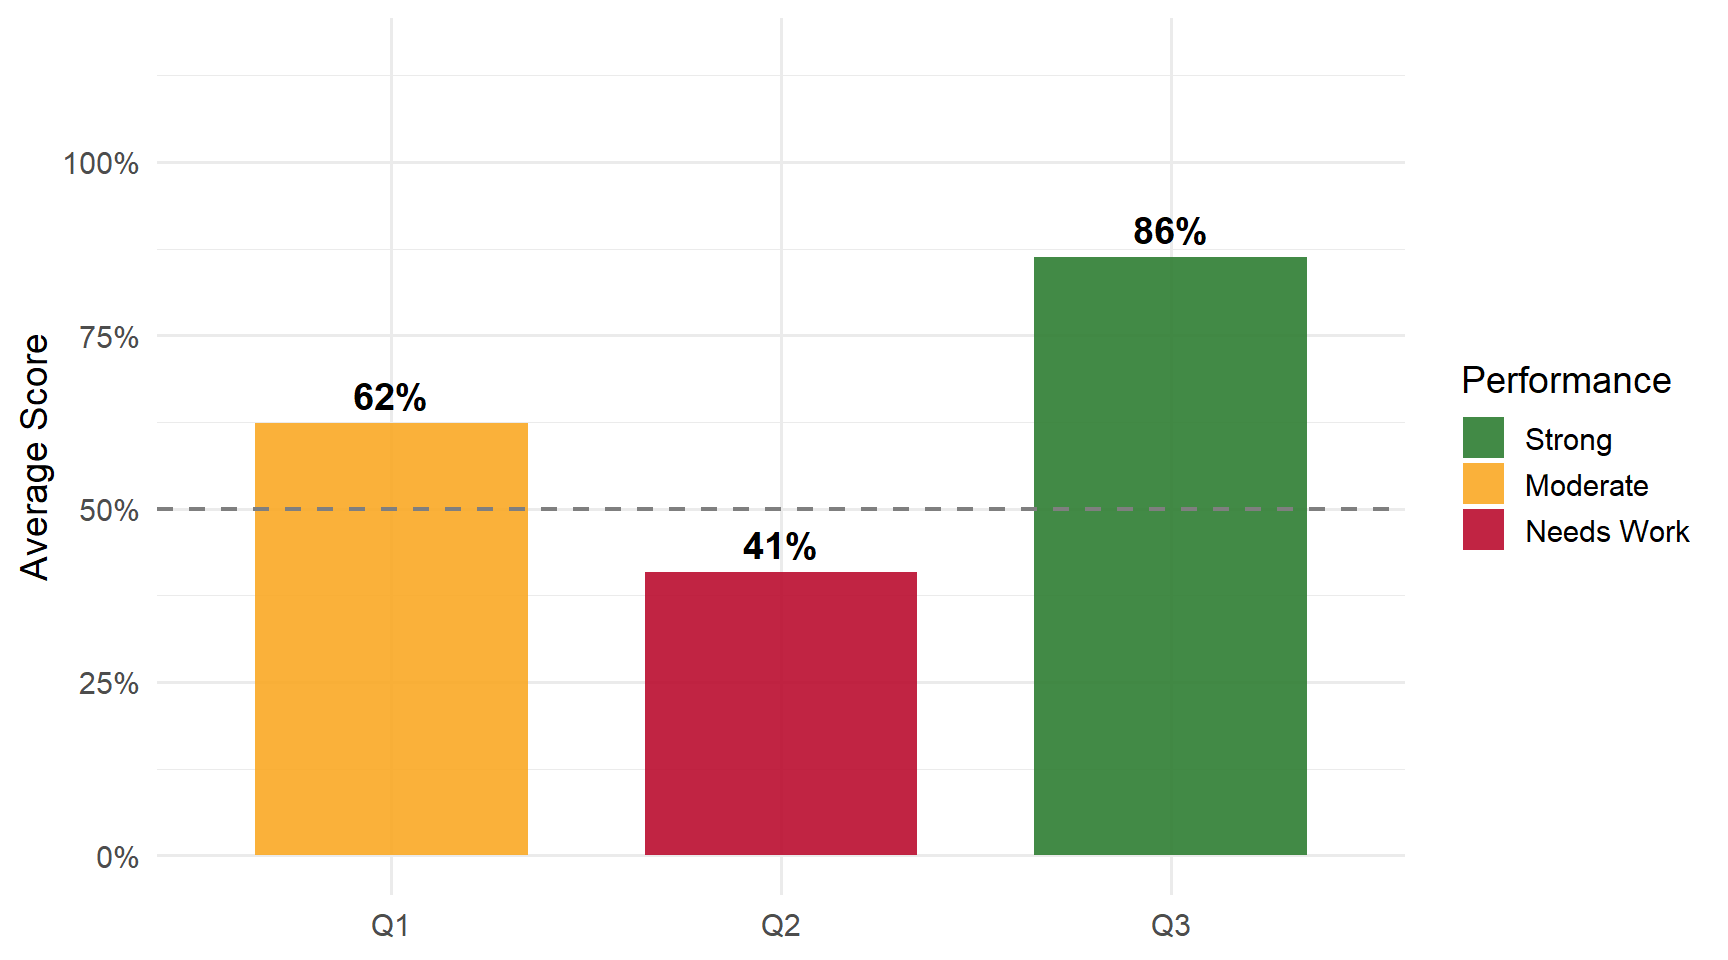
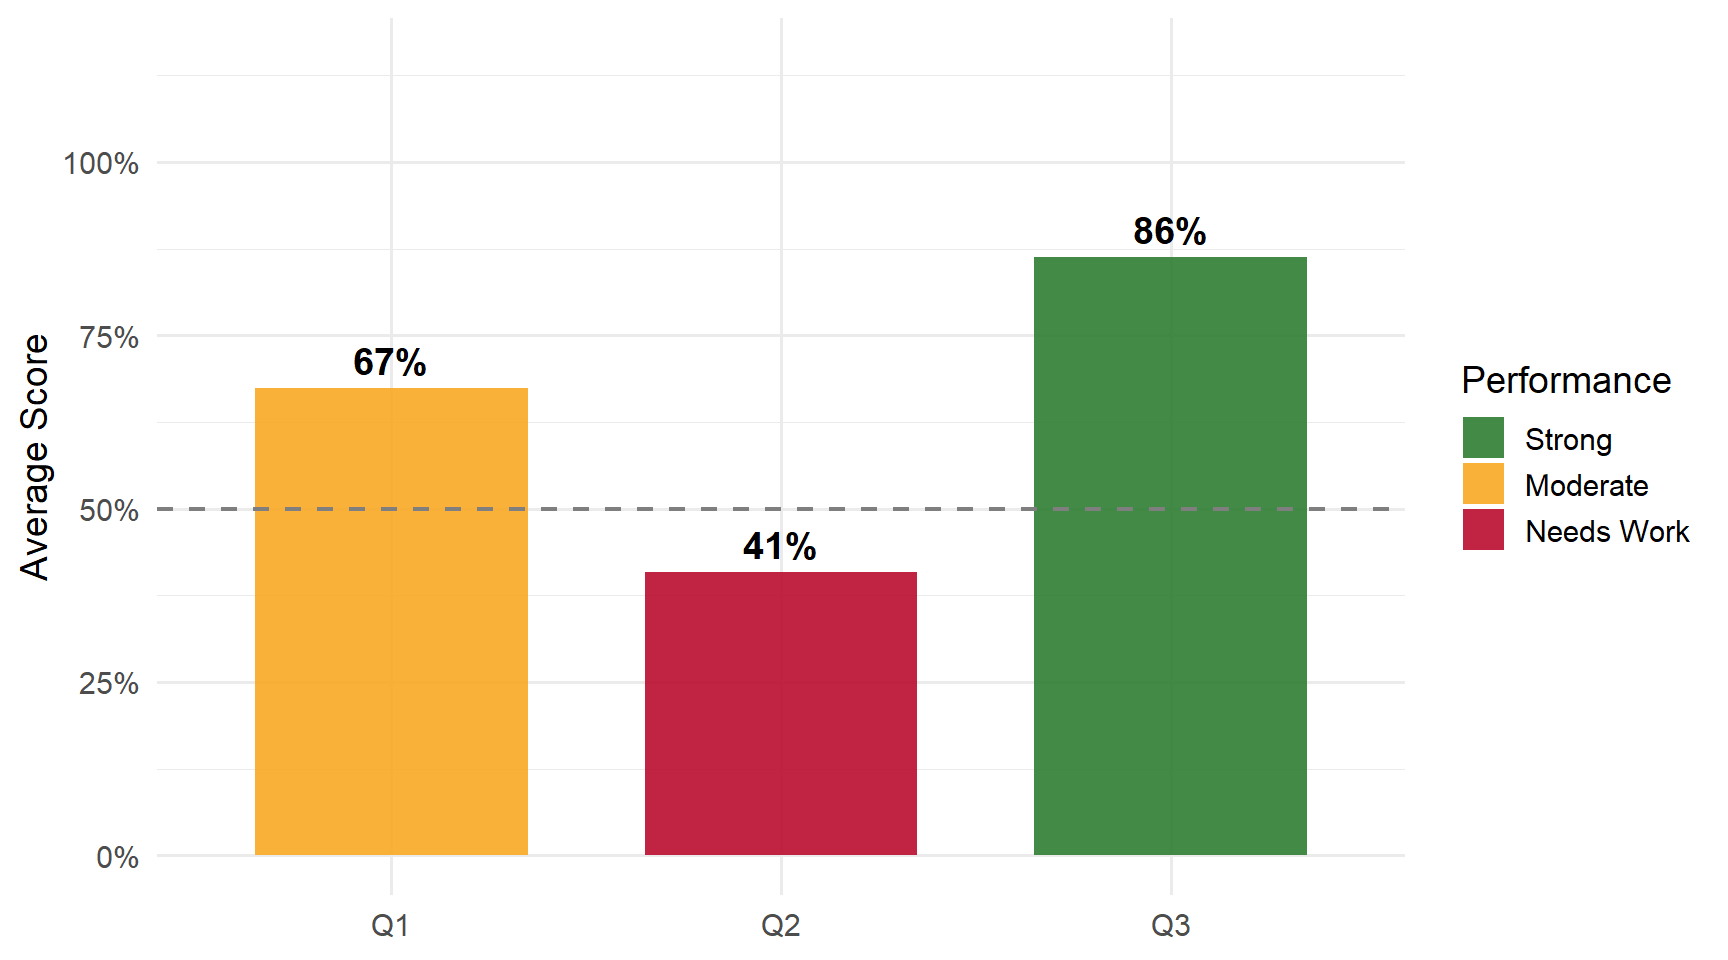
Update Daily 7 Q1 grading: accept 1/N as equivalent to 1/(N-1)
Course relies on asymptotic results, so degrees of freedom correction
is not required. Updated Q1 common errors and key takeaways accordingly.

Changed region(s): [[0.125, 0.3438, 0.3125, 0.4375]]

diff --git a/busn5000-spring2026/daily_07.html b/busn5000-spring2026/daily_07.html
@@ -184,15 +184,11 @@ window.Quarto = {
   }
 
   /* === UGA Typography Overrides for Quarto Content === */
-
-  /* Body text - Georgia (Secondary Serif) */
   body, p, .content, main {
     font-family: Georgia, serif !important;
     letter-spacing: -0.005em;
     line-height: 1.6;
   }
-
-  /* h1 - Oswald (Primary Sans-Serif) */
   h1, .title {
     font-family: 'Oswald', sans-serif !important;
     font-weight: 500;
@@ -200,8 +196,6 @@ window.Quarto = {
     line-height: 1.1;
     color: #BA0C2F;
   }
-
-  /* h2, h3 - Merriweather (Primary Serif) */
   h2, h3 {
     font-family: 'Merriweather', serif !important;
     font-weight: 700;
@@ -209,8 +203,6 @@ window.Quarto = {
     line-height: 1.2;
     color: #BA0C2F;
   }
-
-  /* h4, h5, h6 - Oswald */
   h4, h5, h6 {
     font-family: 'Oswald', sans-serif !important;
     font-weight: 400;
@@ -218,8 +210,6 @@ window.Quarto = {
     line-height: 1.3;
     color: #BA0C2F;
   }
-
-  /* Sidebar navigation - Merriweather Sans (Secondary Sans-Serif) */
   .sidebar-title,
   .sidebar-item-text,
   .sidebar-navigation,
@@ -230,8 +220,6 @@ window.Quarto = {
     font-weight: 400;
     letter-spacing: -0.01em;
   }
-
-  /* Quarto secondary nav / breadcrumbs */
   .quarto-secondary-nav,
   .quarto-page-breadcrumbs,
   .breadcrumb-item,
@@ -239,8 +227,6 @@ window.Quarto = {
     font-family: 'Merriweather Sans', sans-serif !important;
     font-weight: 400;
   }
-
-  /* Tables - Georgia for body, Merriweather Sans for headers */
   table, td {
     font-family: Georgia, serif !important;
     font-size: 0.9em;
@@ -250,8 +236,6 @@ window.Quarto = {
     font-family: 'Merriweather Sans', sans-serif !important;
     font-weight: 600;
   }
-
-  /* Links - UGA Red */
   a {
     color: #BA0C2F;
   }
@@ -259,20 +243,14 @@ window.Quarto = {
     color: #8a091f;
     text-decoration: underline;
   }
-
-  /* Stat boxes and custom elements */
   .stat-box .stat-label,
   .cell-output,
   figcaption {
     font-family: 'Merriweather Sans', sans-serif !important;
   }
-
-  /* Code blocks stay monospace */
   code, pre, .sourceCode {
     font-family: Monaco, Consolas, "Lucida Console", monospace !important;
   }
-
-  /* Page navigation (next/prev) */
   .nav-page,
   .nav-page a {
     font-family: 'Merriweather Sans', sans-serif !important;
@@ -389,7 +367,7 @@ window.Quarto = {
 <section id="class-performance" class="level2">
 <h2 class="anchored" data-anchor-id="class-performance">Class Performance</h2>
 <div class="stat-box">
-<p><strong>Students:</strong> 109 | <strong>Mean:</strong> 1.89 | <strong>Median:</strong> 2 | <strong>SD:</strong> 0.63</p>
+<p><strong>Students:</strong> 109 | <strong>Mean:</strong> 1.94 | <strong>Median:</strong> 2 | <strong>SD:</strong> 0.64</p>
 </div>
 <p>Scores ranged from <strong>0</strong> to <strong>3</strong> out of 3 points.</p>
 </section>
@@ -433,7 +411,7 @@ Correct Answer
 </div>
 <div id="callout-1" class="callout-1-contents callout-collapse collapse">
 <div class="callout-body-container callout-body">
-<p><strong>var(X) = 1/(N-1) <span class="math inline">\(\sum_i\)</span> (X<span class="math inline">\(_i\)</span> - <span class="math inline">\(\overline{X}\)</span>)<span class="math inline">\(^2\)</span></strong> — the sample variance with Bessel’s correction (N-1 denominator).</p>
+<p><strong>var(X) = 1/(N-1) <span class="math inline">\(\sum_i\)</span> (X<span class="math inline">\(_i\)</span> - <span class="math inline">\(\overline{X}\)</span>)<span class="math inline">\(^2\)</span></strong> — the sample variance formula. Either 1/N or 1/(N-1) is acceptable since the course relies on asymptotic results.</p>
 </div>
 </div>
 </div>
@@ -451,8 +429,8 @@ Common Errors
 <div class="callout-body-container callout-body">
 <ul>
 <li><strong>Wrote the sample mean formula</strong> — 1/N <span class="math inline">\(\sum\)</span> X<span class="math inline">\(_i\)</span> is the sample average, not the variance. The variance measures spread around the mean.</li>
-<li><strong>Used 1/N instead of 1/(N-1)</strong> — The sample variance estimator uses N-1 (Bessel’s correction) to produce an unbiased estimate.</li>
 <li><strong>Wrote population/expected value formulas</strong> — E(X), <span class="math inline">\(\sum\)</span> P<span class="math inline">\(_j\)</span>Y<span class="math inline">\(_j\)</span>, or <span class="math inline">\(\sum\)</span> P<span class="math inline">\(_j\)</span>(Y<span class="math inline">\(_j\)</span>-<span class="math inline">\(\mu\)</span>)<span class="math inline">\(^2\)</span> are population quantities, not sample estimators.</li>
+<li><strong>Missing the squared term</strong> — The variance requires squaring the deviations (X<span class="math inline">\(_i\)</span> - <span class="math inline">\(\overline{X}\)</span>)<span class="math inline">\(^2\)</span>; without it the sum is always zero.</li>
 </ul>
 </div>
 </div>
@@ -541,10 +519,10 @@ Common Errors
 </section>
 <section id="key-takeaways" class="level2">
 <h2 class="anchored" data-anchor-id="key-takeaways">Key Takeaways</h2>
-<p><strong>Strengths:</strong> Most students correctly wrote the variance formula with 1/(N-1) | Strong performance reading the rate of return from Figure 4.</p>
+<p><strong>Strengths:</strong> Most students correctly wrote the variance formula | Strong performance reading the rate of return from Figure 4.</p>
 <p><strong>Review:</strong></p>
 <ul>
-<li><strong>Sample variance uses N-1</strong> — not N, and it’s not the sample mean formula</li>
+<li><strong>Know the variance formula structure</strong> — 1/N or 1/(N-1) times <span class="math inline">\(\sum\)</span>(X<span class="math inline">\(_i\)</span> - <span class="math inline">\(\overline{X}\)</span>)<span class="math inline">\(^2\)</span>; don’t confuse with the sample mean</li>
 <li><strong>Identifying significance: |t| &gt; 1.96</strong> — only Participation and Trump Vote pass this threshold</li>
 <li><strong>Read figures carefully</strong> — report the integer value (4%) not the raw coefficient (0.0399)</li>
 </ul>
